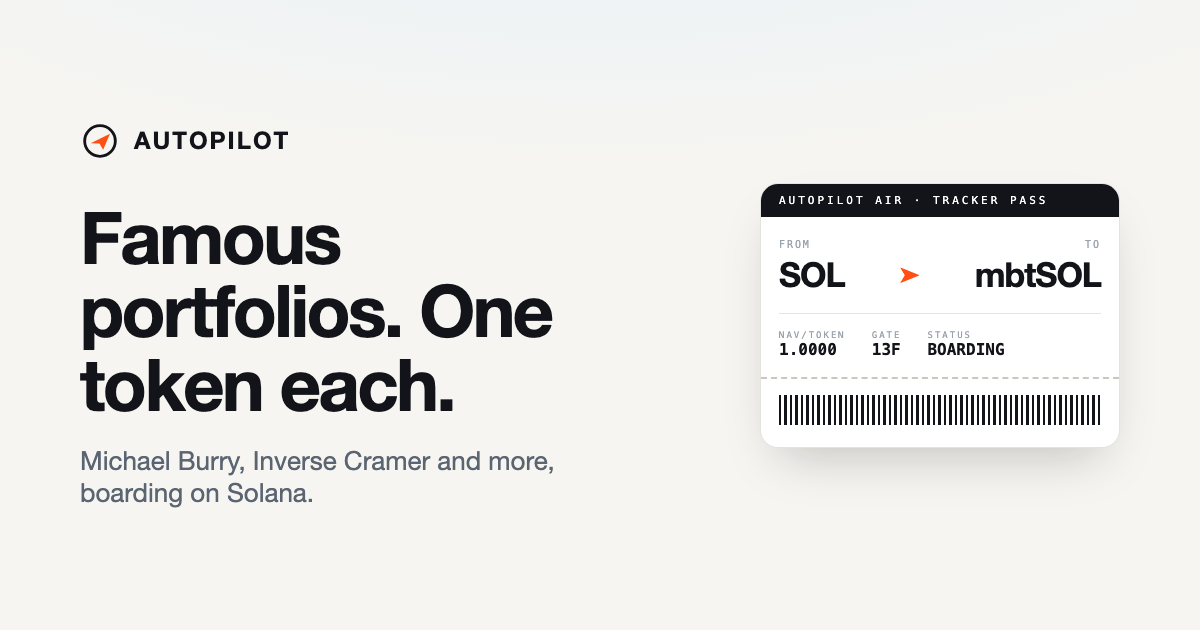
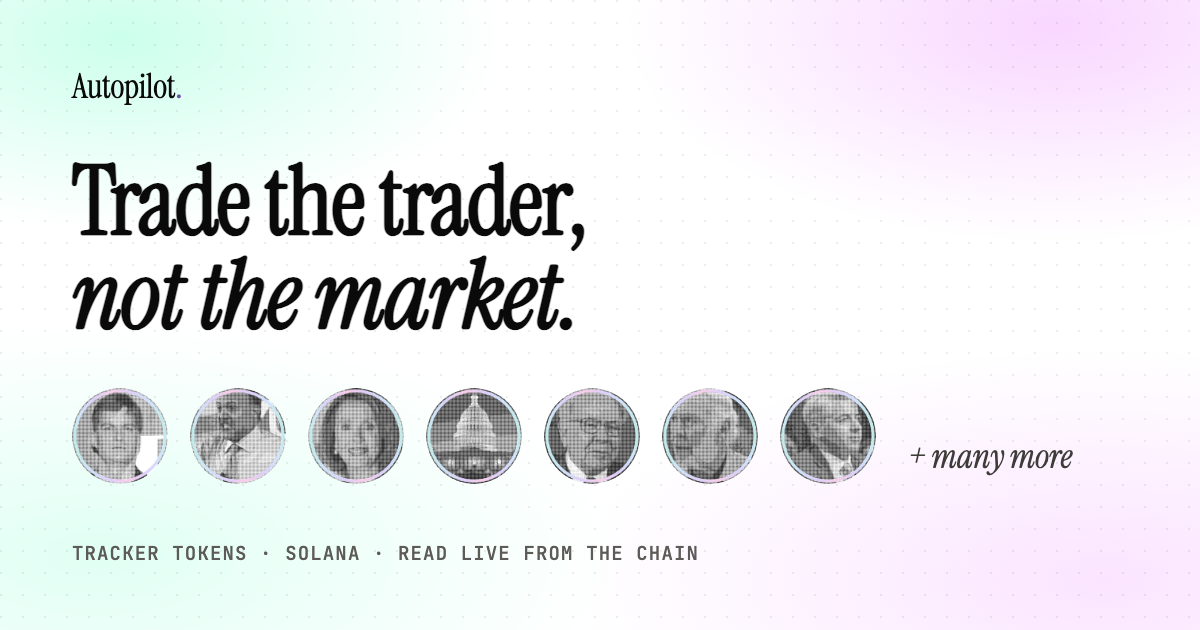
Dot-matrix token art, and site metadata to match
Token marks are now halftone portraits ringed in the pastel button gradient,
so a wallet shows the same object the site does. Derived from the framed
avatars in public/avatars rather than the full-bleed portraits: those are
stage and red-carpet shots where the head is a small patch near the top, and
automatic cropping kept finding somebody's shirt. mbtSOL is the exception and
says so in the generator.

Site title, description and OG image rewritten around the current product.

diff --git a/web/src/app/layout.tsx b/web/src/app/layout.tsx
@@ -30,9 +30,9 @@ const mono = JetBrains_Mono({
   display: "swap",
 });
 
-const title = `${BRAND.name}: famous portfolios, one token`;
+const title = `${BRAND.name}: trade the trader, not the market`;
 const description =
-  "Deposit SOL, get one token that tracks a famous investor's disclosed portfolio. Burn it for SOL any time. No brokerage account, no market hours.";
+  "Seven tracker tokens on Solana. Deposit SOL, hold one token that follows a famous investor's disclosed holdings, and burn it back for SOL at NAV whenever you want. Every balance on the page is read live from the chain.";
 
 export const metadata: Metadata = {
   metadataBase: new URL(`https://${BRAND.domain}`),
@@ -51,6 +51,14 @@ export const metadata: Metadata = {
     description,
     images: ["/og.png"],
   },
+  keywords: [
+    "Solana",
+    "tokenized equities",
+    "xStocks",
+    "13F tracker",
+    "copy trading",
+    "on-chain index",
+  ],
   icons: { icon: "/icon.svg" },
   other: { "solana:cluster": CLUSTER },
 };

diff --git a/web/src/components/site/deposit-flow.tsx b/web/src/components/site/deposit-flow.tsx
@@ -81,7 +81,7 @@ export function DepositFlow({ pinned }: { pinned?: string } = {}) {
       <Tile label="You deposit" caption="SOL">
         {/* SolMark sizes itself to the surrounding text (h-[0.66em]), which
             beats any h-* class passed in. Drive it with font-size instead. */}
-        <span className="text-[62px] leading-none sm:text-[70px]">
+        <span className="flex text-[62px] leading-none sm:text-[70px]">
           <SolMark />
         </span>
       </Tile>

diff --git a/web/scripts/gen-token-art.py b/web/scripts/gen-token-art.py
@@ -1,0 +1,227 @@
+#!/usr/bin/env python3
+"""Regenerates public/tokens/<ticker>.png as dot-matrix halftone portraits.
+
+The token mark a wallet shows should be the same object the site shows. The
+site renders every portrait as ink dots (see src/components/ui/halftone.tsx),
+so a glossy photo in the wallet was a second identity for the same asset.
+
+Source is public/avatars/<ticker>.png, which are the original hand-framed
+headshots. Deriving from those rather than re-cropping the full-bleed
+portraits in public/portraits matters: those are red-carpet and stage shots
+where the head can be a small patch near the top, and every attempt to find
+it automatically produced somebody's shirt. The framing was already solved
+once; this reuses it.
+
+Mirrors halftone.tsx: sample at one pixel per dot cell, take luminance,
+invert so dark areas get the big dots, radius = maxR * sqrt(strength). Drawn
+at 4x and downsampled so the circles land smooth.
+
+    python3 scripts/gen-token-art.py
+"""
+
+import json
+import math
+import pathlib
+import subprocess
+import sys
+
+try:
+    from PIL import Image, ImageDraw, ImageOps
+except ImportError:
+    sys.exit("Pillow is required:  python3 -m pip install Pillow")
+
+ROOT = pathlib.Path(__file__).resolve().parent.parent
+
+SIZE = 512          # final token image, square
+PITCH = 5           # css px between dot centres, at SIZE
+SUPERSAMPLE = 4     # draw big, shrink down: antialiasing for free
+RING = 16           # gradient ring thickness at SIZE
+# The source avatars carry a flat accent ring of about this thickness.
+# Everything outside it is discarded so it cannot become dots.
+SRC_RING = 20
+
+# Most tokens derive from the hand-framed avatars. mbtSOL is the exception:
+# its avatar frames Burry against the "THE BIG SHORT" backdrop panel, which
+# halftones into a white slab across the disc. The raw red-carpet portrait
+# cropped to these numbers reads better, so it wins.
+#   ticker -> (portrait file, (centre x, centre y, zoom) in 0..1)
+PORTRAIT_OVERRIDES = {
+    "mbtSOL": ("burry.jpg", (0.48, 0.11, 0.42)),
+}
+INK = (10, 10, 10)
+
+# The same pastel stops the primary button carries, so a token and the button
+# that buys it are visibly the same family. Ordered as the button reads.
+GRADIENT = [
+    (0.00, (0xB6, 0xF2, 0xD8)),
+    (0.17, (0xCF, 0xE6, 0xFB)),
+    (0.34, (0xDE, 0xD0, 0xFA)),
+    (0.50, (0xF8, 0xCF, 0xE9)),
+    (0.66, (0xDE, 0xD0, 0xFA)),
+    (0.83, (0xCF, 0xE6, 0xFB)),
+    (1.00, (0xB6, 0xF2, 0xD8)),
+]
+
+
+def gradient_at(t):
+    """Colour at 0..1 along the stop list."""
+    for i in range(len(GRADIENT) - 1):
+        p0, c0 = GRADIENT[i]
+        p1, c1 = GRADIENT[i + 1]
+        if p0 <= t <= p1:
+            k = 0 if p1 == p0 else (t - p0) / (p1 - p0)
+            return tuple(round(c0[j] + (c1[j] - c0[j]) * k) for j in range(3))
+    return GRADIENT[-1][1]
+
+
+def gradient_image(size):
+    """A 100-degree linear sweep, matching .btn-grad's angle."""
+    img = Image.new("RGB", (size, size))
+    px = img.load()
+    # 100deg from vertical is close to left-to-right with a slight rise.
+    dx, dy = math.cos(math.radians(-10)), math.sin(math.radians(-10))
+    lo = min(0, size * dy)
+    span = size * abs(dx) + size * abs(dy)
+    for y in range(size):
+        for x in range(size):
+            t = ((x * dx + y * dy) - lo) / span
+            px[x, y] = gradient_at(min(1, max(0, t)))
+    return img
+
+
+def manifest():
+    """Ticker, portrait and accent straight out of config.ts."""
+    script = (
+        "const m = await import('./src/lib/config.ts');"
+        "console.log(JSON.stringify(m.TRACKERS.map(t =>"
+        "({ticker: t.ticker, portrait: t.portrait, accent: t.accent}))));"
+    )
+    out = subprocess.run(
+        ["node", "--experimental-strip-types", "--input-type=module", "-e", script],
+        cwd=ROOT, capture_output=True, text=True,
+    )
+    line = next(
+        (l for l in out.stdout.splitlines() if l.strip().startswith("[")), None
+    )
+    if not line:
+        sys.exit(f"could not read config.ts:\n{out.stderr}")
+    return json.loads(line)
+
+
+def focus_crop(path, focus):
+    """Square around a subject in a full-bleed portrait, per focus."""
+    im = Image.open(path).convert("RGB")
+    w, h = im.size
+    cx, cy, zoom = focus
+    side = int(min(w, h) * zoom)
+    x = max(0, min(int(w * cx - side / 2), w - side))
+    y = max(0, min(int(h * cy - side / 2), h - side))
+    return im.crop((x, y, x + side, y + side)).resize((SIZE, SIZE), Image.LANCZOS)
+
+
+def framed_disc(path):
+    """The avatar's inner disc on white, scaled to fill a SIZE square."""
+    im = Image.open(path).convert("RGBA")
+    im = im.resize((SIZE, SIZE), Image.LANCZOS)
+
+    flat = Image.new("RGB", (SIZE, SIZE), (255, 255, 255))
+    flat.paste(im, (0, 0), im)
+
+    inner = SIZE / 2 - SRC_RING
+    mask = Image.new("L", (SIZE, SIZE), 0)
+    ImageDraw.Draw(mask).ellipse(
+        (SIZE / 2 - inner, SIZE / 2 - inner, SIZE / 2 + inner, SIZE / 2 + inner),
+        fill=255,
+    )
+    on_white = Image.new("RGB", (SIZE, SIZE), (255, 255, 255))
+    on_white.paste(flat, (0, 0), mask)
+
+    box = int(SIZE / 2 - inner)
+    return on_white.crop((box, box, SIZE - box, SIZE - box)).resize(
+        (SIZE, SIZE), Image.LANCZOS
+    )
+
+
+def halftone(source, focus=None):
+    src = focus_crop(source, focus) if focus else framed_disc(source)
+
+    cells = math.ceil(SIZE / PITCH)
+    grid = src.resize((cells, cells), Image.LANCZOS)
+    # Portraits are mostly mid-tones, and mid-tones all map to mid-sized dots,
+    # which reads as texture rather than a face. Stretch the range first.
+    grid = ImageOps.autocontrast(grid, cutoff=2)
+    px = grid.load()
+
+    big = SIZE * SUPERSAMPLE
+    canvas = Image.new("RGBA", (big, big), (255, 255, 255, 255))
+    draw = ImageDraw.Draw(canvas)
+
+    step = PITCH * SUPERSAMPLE
+    max_r = (PITCH / 2) * 0.92 * SUPERSAMPLE
+    min_r = 0.35 * SUPERSAMPLE
+
+    for gy in range(cells):
+        for gx in range(cells):
+            r, g, b = px[gx, gy]
+            lum = (0.2126 * r + 0.7152 * g + 0.0722 * b) / 255
+            strength = 1 - lum          # invert: dark source, big dot
+            if strength <= 0:
+                continue
+            radius = max_r * math.sqrt(strength)
+            if radius < min_r:
+                continue
+            cx = (gx + 0.5) * step
+            cy = (gy + 0.5) * step
+            draw.ellipse(
+                (cx - radius, cy - radius, cx + radius, cy + radius), fill=INK
+            )
+
+    # Clip the dot field to a disc, then ring it in the tracker's accent.
+    mask = Image.new("L", (big, big), 0)
+    ImageDraw.Draw(mask).ellipse((0, 0, big - 1, big - 1), fill=255)
+    disc = Image.new("RGBA", (big, big), (0, 0, 0, 0))
+    disc.paste(canvas, (0, 0), mask)
+
+    ring = RING * SUPERSAMPLE
+    ring_mask = Image.new("L", (big, big), 0)
+    ImageDraw.Draw(ring_mask).ellipse(
+        (ring / 2, ring / 2, big - 1 - ring / 2, big - 1 - ring / 2),
+        outline=255, width=ring,
+    )
+    disc.paste(gradient_image(big).convert("RGBA"), (0, 0), ring_mask)
+
+    return disc.resize((SIZE, SIZE), Image.LANCZOS)
+
+
+def main():
+    src_dir = ROOT / "public" / "avatars"
+    out_dir = ROOT / "public" / "tokens"
+    written = 0
+
+    for tracker in manifest():
+        ticker = tracker["ticker"]
+        slug = ticker.lower()
+
+        override = PORTRAIT_OVERRIDES.get(ticker)
+        if override:
+            name, focus = override
+            source = ROOT / "public" / "portraits" / name
+            label = f"portraits/{name}"
+        else:
+            source, focus = src_dir / f"{slug}.png", None
+            label = f"avatars/{slug}.png"
+
+        if not source.exists():
+            print(f"  {ticker:8} missing {label}, skipped")
+            continue
+
+        art = halftone(source, focus)
+        art.save(out_dir / f"{slug}.png", "PNG", optimize=True)
+        written += 1
+        print(f"  {ticker:8} {label:22} -> tokens/{slug}.png")
+
+    print(f"\n{written} token images redrawn as dot matrices")
+
+
+if __name__ == "__main__":
+    main()
